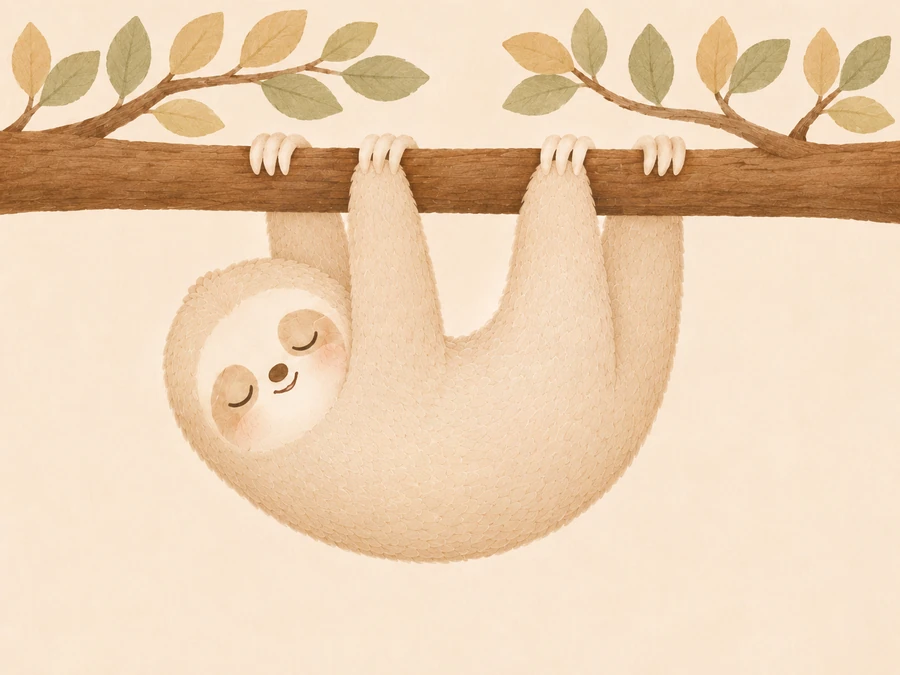
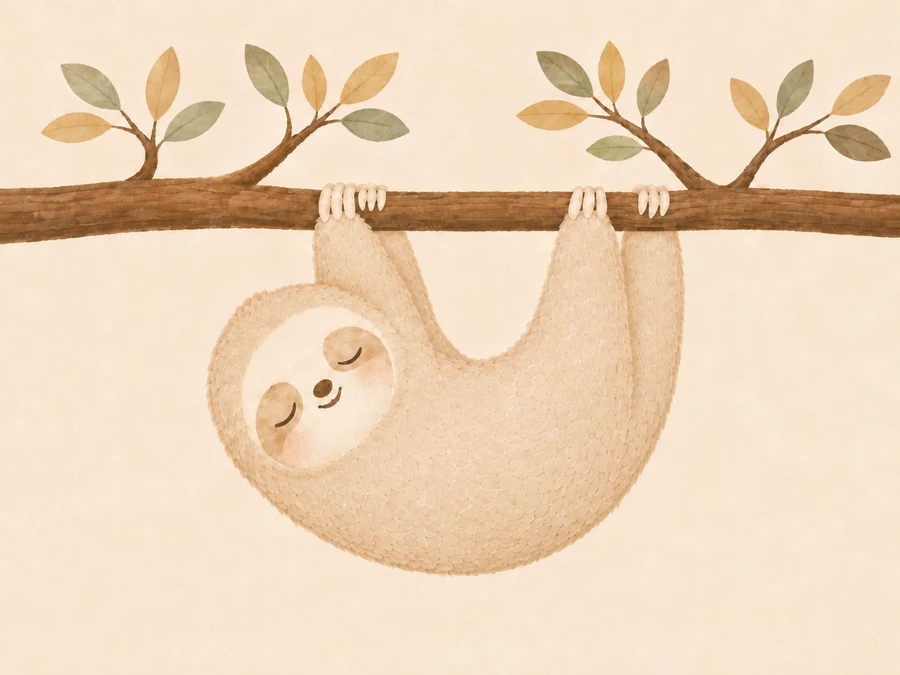
換上定稿封面：四隻手、圓潤的葉子、閉著的嘴
她第三輪生對了。三個都到位：遠側兩肢從樹枝後面繞（樹枝蓋住它們）、
葉子回到圓潤沒葉脈的那版、嘴巴是一條乾淨的閉合弧線。

三條帶重量（每張圖都不一樣，不能沿用）：
  葉子  0 – 24.0%     橫向切兩片，各自 skew
  樹枝  24.0 – 61.6%  不動
  慢寶  36.7% 以下    rotate，支點 54.7% / 30.3%

⚠ 量主樹枝上緣時多踩一個坑：逐欄取最長深色段還不夠。
**細枝匯入樹枝的那幾欄，細枝和樹枝會連成一整段**，起點看起來突然高 60px。
照那個值切，葉帶只剩 15%，一半的葉子會變成靜止的。
要再用移動中位數把那 32 欄剔掉，才是主樹枝真正的上緣（165 而不是 107）。

ASSETS 35 -> 36

Changed region(s): [[0.0, 0.0, 1.0, 0.8711]]

diff --git a/index.html b/index.html
@@ -178,17 +178,17 @@ img { display: block; max-width: 100%; }
 .bo-stage > img, .bo-stage > .bo-swing { display: block; }
 
 .bo-swing {
-  transform-origin: 52.6% 27.3%;     /* 四隻爪抓著樹枝的中點 */
+  transform-origin: 54.7% 30.3%;     /* 四隻爪抓著樹枝的中點 */
   animation: sway 4.6s ease-in-out infinite;
 }
-.bo-swing > img { clip-path: inset(33.6% 0 0 0); }
+.bo-swing > img { clip-path: inset(36.7% 0 0 0); }
 
 .bo-branch, .bo-leaf-a, .bo-leaf-b, .bo-leaf-c {
   position: absolute; inset: 0;
   width: 100%;
   pointer-events: none;
 }
-.bo-branch { clip-path: inset(17.0% 0 64.7% 0); }   /* 純樹枝，不動 */
+.bo-branch { clip-path: inset(24.0% 0 61.6% 0); }   /* 純樹枝，不動 */
 
 /* 枝葉橫切成三片，切線落在三叢之間的空白處（x=438 / 686 於 900 寬）。
    每一片只畫一次，所以不會有「靜止的和會動的疊在一起」的殘影。
@@ -197,15 +197,18 @@ img { display: block; max-width: 100%; }
    左邊那叢是一根分岔的枝（兩簇共用一根莖），整叢一起晃才對，但那樣看起來
    會有三根在動；讓它整片不動，剛好剩右邊兩根獨立的枝在晃。
    兩根的幅度和週期都不一樣，而且錯開相位，不然又變成整齊劃一。 */
-.bo-leaf-a { clip-path: inset(0 51.7% 83.0% 0);      animation: breeze-b 5.6s ease-in-out infinite; }
-.bo-leaf-b { clip-path: inset(0 0 83.0% 51.7%);      animation: breeze-c 3.9s ease-in-out -1.2s infinite; }
-.bo-leaf-c { display: none; }                        /* 這版只有兩叢枝葉 */
-.bo-leaf-a, .bo-leaf-b { transform-origin: 50% 17.0%; }   /* 枝葉與樹枝的接合線 */
+.bo-leaf-a { clip-path: inset(0 48.2% 76.0% 0);      animation: breeze-b 5.6s ease-in-out infinite; }
+.bo-leaf-b { clip-path: inset(0 0 76.0% 51.8%);      animation: breeze-c 3.9s ease-in-out -1.2s infinite; }
+.bo-leaf-c { display: none; }                        /* 這版左右各一叢 */
+.bo-leaf-a, .bo-leaf-b { transform-origin: 50% 24.0%; }   /* 枝葉與樹枝的接合線 */
 
 /* ⛔ 葉子帶的下緣要在**主樹枝上緣的最高點**之上，不是在它的中位數之上。
    踩過：切在 21.2%（中位數附近），但樹枝在最左端比較粗、上緣高到 y=130，
    於是有 25px 的樹枝被關進會 skew 的葉子層 —— 動起來就滑出一根獨立的柱子。
-   量法：逐欄取最長的深色連續段（長度 ≥30 才算主樹枝，排除細枝），取最小值再往上留 3px。 */
+   量法：逐欄取最長的深色連續段（長度 ≥30 才算主樹枝）。
+   ⚠ 光這樣還不夠 —— **細枝匯入樹枝的那幾欄，細枝和樹枝會連成一整段**，
+   起點看起來會突然高 60px，把切線硬拉上去（那 32 欄會讓葉帶只剩 15%，
+   一半的葉子變成靜止的）。要再用移動中位數把那些欄剔掉，才是主樹枝真正的上緣。 */
 
 @keyframes sway {
   0%, 100% { transform: rotate(-1.4deg); }
@@ -627,7 +630,7 @@ ol.steps li::before {
 </div>
 
 <!-- 改完 recipes.js 就把 v 往上加一號，不然瀏覽器會一直吃舊的快取 -->
-<script src="recipes.js?v=37"></script>
+<script src="recipes.js?v=38"></script>
 <script>
 /* ══════════════════════════════════════════════
    慢寶 · 骨架
@@ -635,7 +638,7 @@ ol.steps li::before {
    ══════════════════════════════════════════════ */
 
 /* 素材版本。換過圖就 bump 一次，否則瀏覽器會一直用舊的快取 */
-const ASSETS = '35';
+const ASSETS = '36';
 const asset = p => p + '?v=' + ASSETS;
 
 const $ = (s, el = document) => el.querySelector(s);
@@ -744,7 +747,7 @@ const TERM = {
   '昆布魚乾高湯': '다시마·멸치 육수',
   '杏鮑菇': '새송이버섯',
   '松露橄欖油': '트러플 올리브오일',
-  '板豆腐': '부침용 두부',
+  '板豆腐': '찌개용 두부',
   '棒棒腿': '닭다리(북채)',
   '橄欖油': '올리브오일',
   '櫛瓜': '애호박',
